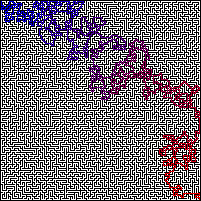
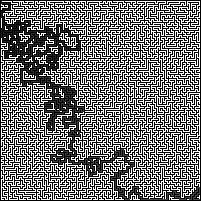
Optimized Graph implementation
Straight edges get collapsed to one edge to drastically reduce computation time

diff --git a/src/solver/solver.py b/src/solver/solver.py
@@ -1,0 +1,88 @@
+import abc
+import numpy as np
+from PIL import Image
+
+from src.point import Point
+from src.solver.node import Node
+from src.solver.path import Path
+
+
+class Solver:
+    __metaclass__ = abc.ABCMeta
+
+    def __init__(self, path: str) -> None:
+
+        array = np.asarray(Image.open(path))
+
+        self.h = array.shape[0]
+        self.w = array.shape[1]
+        self._nodes = [None] * (self.w * self.h)
+
+        top_nodes = [None] * self.w
+
+        for y in range(1, self.h - 1):
+            cur = False
+            nxt = array[y, 1]
+
+            left_node: Node = None
+
+            for x in range(1, self.w - 1):
+                prv = cur
+                cur = nxt
+                nxt = array[y, x + 1] > 0
+
+                if not cur:
+                    # ON WALL
+                    continue
+
+                node = None
+
+                if prv:
+                    if nxt:
+                        # PATH PATH PATH
+                        # Create node only if paths above or below
+                        if array[y - 1, x] > 0 or array[y + 1, x] > 0:
+                            node = Node(x, y)
+                            left_node.neighbours.append(node)
+                            node.neighbours.append(left_node)
+                            left_node = node
+                    else:
+                        # PATH PATH WALL
+                        # Create path at end of corridor
+                        node = Node(x, y)
+                        left_node.neighbours.append(node)
+                        node.neighbours.append(left_node)
+                        left_node = None
+                else:
+                    if nxt:
+                        # WALL PATH PATH
+                        # Create path at start of corridor
+                        node = Node(x, y)
+                        left_node = node
+                    else:
+                        # WALL PATH WALL
+                        # Create node only if in dead end
+                        if array[y - 1, x] == 0 or array[y + 1, x] == 0:
+                            node = Node(x, y)
+
+                if node is not None:
+                    self[x, y] = node
+
+                    if array[y - 1, x] > 0:
+                        top_nodes[x].neighbours.append(node)
+                        node.neighbours.append(top_nodes[x])
+
+                    top_nodes[x] = node if array[y + 1, x] > 0 else None
+
+    @abc.abstractmethod
+    def solve(self, start: Point, end: Point) -> Path:
+        pass
+
+    def __setitem__(self, item: tuple, value) -> None:
+        self._nodes[self._idx(item[0], item[1])] = value
+
+    def __getitem__(self, item: tuple) -> Node:
+        return self._nodes[self._idx(item[0], item[1])]
+
+    def _idx(self, x_idx: int, y_idx: int) -> int:
+        return x_idx + y_idx * self.w

diff --git a/src/solver/a_star.py b/src/solver/a_star.py
@@ -1,35 +1,12 @@
-from PIL import Image
-import numpy as np
-
 from src.point import Point
-from src.solver.node import Node
 from src.solver.path import Path
+from src.solver.solver import Solver
 
 
-class AStar:
+class AStar(Solver):
 
     def __init__(self, path) -> None:
-
-        array = np.asarray(Image.open(path))
-
-        self.nodes = []
-        self.h = array.shape[0]
-        self.w = array.shape[1]
-
-        for y in range(self.h):
-            for x in range(self.w):
-                self.nodes.append(Node(y, x, array[y, x] == 0))
-
-        for y in range(self.h):
-            for x in range(self.w):
-                if y > 0:
-                    self[x, y].neighbours.append(self[x, y - 1])
-                if y < self.h - 1:
-                    self[x, y].neighbours.append(self[x, y + 1])
-                if x > 0:
-                    self[x, y].neighbours.append(self[x - 1, y])
-                if x < self.w - 1:
-                    self[x, y].neighbours.append(self[x + 1, y])
+        super().__init__(path)
 
     def solve(self, start: Point, end: Point) -> Path:
         start_node = self[start.x, start.y]
@@ -37,7 +14,8 @@ class AStar:
 
         for y in range(self.h):
             for x in range(self.w):
-                self[x, y].reset()
+                if self[x, y] is not None:
+                    self[x, y].reset()
 
         start_node.local_goal = 0
         start_node.global_goal = start_node.heuristic(end_node)
@@ -62,11 +40,7 @@ class AStar:
 
                     node.global_goal = node.local_goal + node.heuristic(end_node)
 
-                    if node not in stack and not node.obstacle:
+                    if node not in stack:
                         stack.append(node)
 
-    def __getitem__(self, item: tuple) -> Node:
-        return self.nodes[self.idx(item[0], item[1])]
-
-    def idx(self, x_idx, y_idx) -> int:
-        return x_idx + y_idx * self.w
+        raise Exception("Finished A* Algorithm without finding the end Node!")

diff --git a/src/solver/path.py b/src/solver/path.py
@@ -1,3 +1,4 @@
+from src.point import Point
 from src.solver.node import Node
 
 
@@ -17,16 +18,33 @@ class Path:
     def save(self, base_path: str, save_to_path: str) -> None:
         from PIL import Image
 
+        points = []
+
+        for i in range(len(self.path) - 1):
+            cur = self.path[i].pos
+            nxt = self.path[i + 1].pos
+
+            if cur.y == nxt.y:
+                # Ys equal - horizontal line
+                for x in range(min(cur.x, nxt.x), max(cur.x, nxt.x) + 1):
+                    points.append(Point(x, cur.y))
+            elif cur.x == nxt.x:
+                # Xs equal - vertical line
+                for y in range(min(cur.y, nxt.y), max(cur.y, nxt.y) + 1):
+                    points.append(Point(cur.x, y))
+
+        length = len(points)
+
         colors = []
-        for i in range(len(self.path)):
-            fract = i / len(self.path)
-            colors.append((int(fract * 240), 0, int((1 - fract) * 240)))
+        for i in range(length):
+            r = int((i / length) * 240)
+            colors.append((r, 0, 240 - r))
 
         img = Image.open(base_path)
         rgb_img = Image.new("RGBA", img.size)
         rgb_img.paste(img)
 
-        for i, node in enumerate(self.path):
-            rgb_img.putpixel((node.pos.x, node.pos.y), colors[i])
+        for i, point in enumerate(points):
+            rgb_img.putpixel((point.x, point.y), colors[i])
 
         rgb_img.save(save_to_path)

diff --git a/src/solver/node.py b/src/solver/node.py
@@ -2,10 +2,9 @@ from src.point import Point
 
 
 class Node:
-    def __init__(self, x, y, obstacle=False) -> None:
+    def __init__(self, x, y) -> None:
         self.pos = Point(x, y)
 
-        self.obstacle = obstacle
         self.global_goal = float("inf")
         self.local_goal = float("inf")
 
@@ -23,6 +22,6 @@ class Node:
         self.local_goal = float("inf")
 
     def __repr__(self) -> str:
-        return self.pos.__repr__() + " " + self.obstacle.__repr__()
+        return self.pos.__repr__()
 
 

diff --git a/src/maze.py b/src/maze.py
@@ -13,11 +13,11 @@ class Maze:
         self.h = h
         self.grid = [0] * (w * h)
 
-    def generate(self, sx, sy) -> None:
+    def generate(self, start: Point) -> None:
         import random
 
-        stack = [Point(sx, sy)]
-        self[(sx, sy)] = Maze.VISITED
+        stack = [start]
+        self[start.x, start.y] = Maze.VISITED
 
         def offset(ox, oy) -> tuple:
             return stack[-1].x + ox, stack[-1].y + oy

diff --git a/main.py b/main.py
@@ -1,4 +1,3 @@
-import random
 from src.maze import Maze
 from src.point import Point
 from src.solver.a_star import AStar
@@ -8,11 +7,8 @@ def main():
     w = 100
     h = 100
 
-    sx = random.randint(0, w - 1)
-    sy = random.randint(0, h - 1)
-
     maze = Maze(w, h)
-    maze.generate(sx, sy)
+    maze.generate(Point.random(w, h))
     # maze.print()
     maze.save('Maze.png')
 

diff --git a/src/point.py b/src/point.py
@@ -1,4 +1,3 @@
-
 class Point:
     def __init__(self, x, y):
         self.x = x
@@ -6,3 +5,11 @@ class Point:
 
     def __repr__(self) -> str:
         return str(self.x) + "x " + str(self.y) + "y"
+
+    @staticmethod
+    def random(a: int, b: int):
+        import random
+
+        x = random.randint(0, a - 1)
+        y = random.randint(0, b - 1)
+        return Point(x, y)

diff --git a/README.md b/README.md
@@ -13,6 +13,7 @@ Implemented as it can be found [here](https://en.wikipedia.org/wiki/Maze_generat
 ## Path Finding
 
 Implemented path finding algorithms to find the shortest path in a generated Maze.
+The Graph Layout gets optimized by combining straight edges to one before running the Path finding Algorithm.
 
 Implementation contain:
 
@@ -23,4 +24,4 @@ Implementation contain:
 ## Future
 
 - Implement the basic [Dijkstra's algorithm](https://en.wikipedia.org/wiki/Pathfinding#Dijkstra's_algorithm)
-- Optimize Graph layout by combining straight edges to one
+- Optimize Graph layout by including edge length in graph
